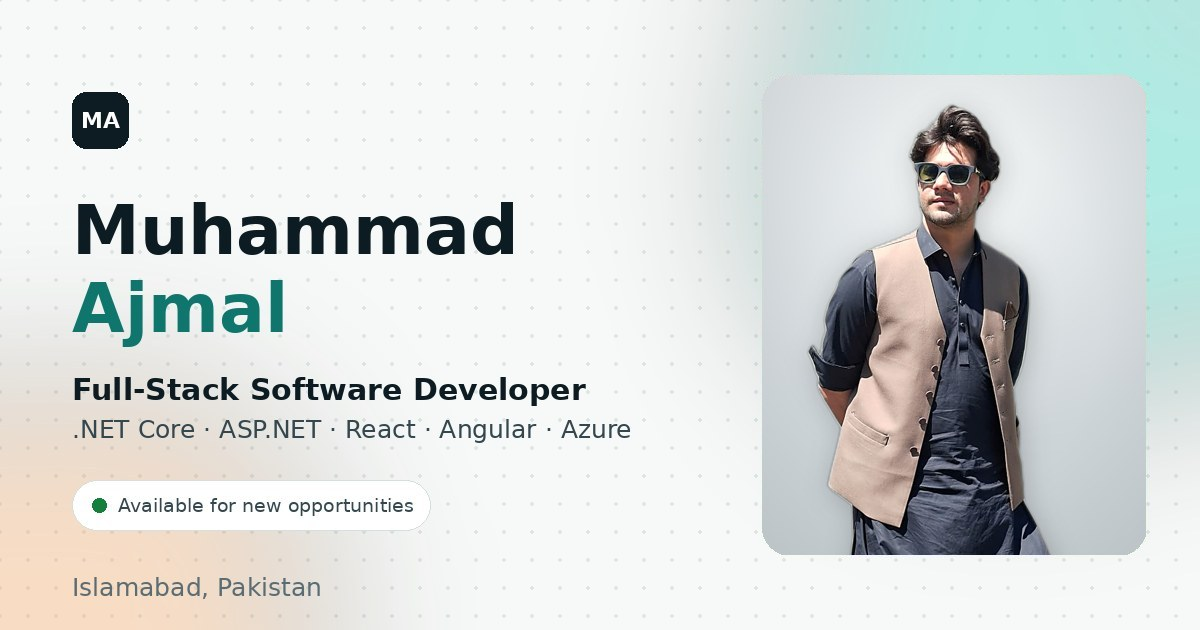
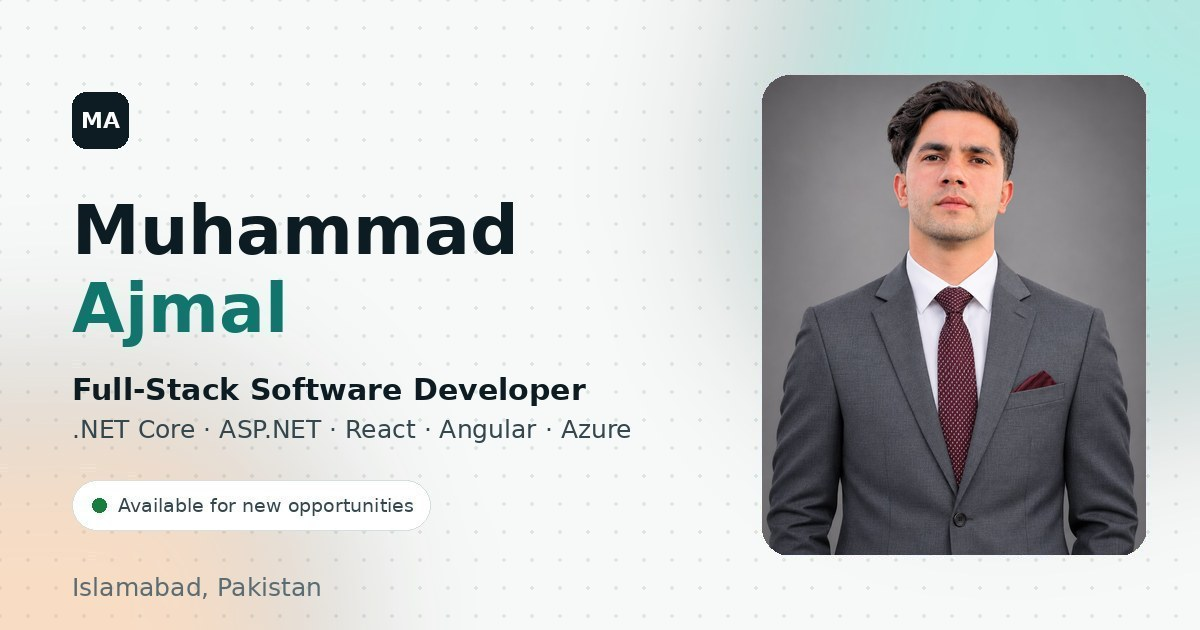
Add files via upload

Changed region(s): [[0.6167, 0.1206, 0.9558, 0.9048]]

diff --git a/config.js b/config.js
@@ -29,9 +29,10 @@ window.PORTFOLIO = {
     ],
     location: "Islamabad, Pakistan",
     hometown: "Matta, Swat",
-    photo: "profile.webp",
-    photoFallback: "profile.jpg",
-    photoAlt: "Portrait of Muhammad Ajmal standing beside a turquoise mountain lake",
+    photo: "profile-gray.webp",
+    photoFallback: "profile-gray.jpg",
+    // To use the navy-suit photo instead: "profile-navy.webp" and "profile-navy.jpg"
+    photoAlt: "Professional portrait of Muhammad Ajmal in a suit and tie",
     email: "khanajmal4413@gmail.com",
     phone: "+92 348 2481071",
     whatsapp: "923482481071",         // digits only, with country code

diff --git a/index.html b/index.html
@@ -32,7 +32,7 @@
 <link rel="preconnect" href="https://fonts.googleapis.com">
 <link rel="preconnect" href="https://fonts.gstatic.com" crossorigin>
 <link href="https://fonts.googleapis.com/css2?family=Space+Grotesk:wght@500;600;700&family=Manrope:wght@400;500;600;700&family=JetBrains+Mono:wght@400;500&display=swap" rel="stylesheet">
-<link rel="preload" as="image" href="profile.webp" type="image/webp">
+<link rel="preload" as="image" href="profile-gray.webp" type="image/webp">
 <link rel="stylesheet" href="styles.css">
 </head>
 <body>

diff --git a/README.md b/README.md
@@ -16,7 +16,7 @@ Plain HTML, CSS and JavaScript with no build step and no dependencies. It is hos
 | `config.js` | **All your personal information. Edit this file to update the site.** |
 | `styles.css` | Design system, light/dark themes, layout, animations |
 | `app.js` | Builds every section from `config.js` + all interactions |
-| `profile.webp` / `profile.jpg` | Profile photo (WebP + JPG fallback) |
+| `profile-gray.webp` / `profile-gray.jpg` (+ `profile-navy.*` alternative) | Profile photo (WebP + JPG fallback) |
 | `Muhammad_Ajmal_CV.pdf` | Downloadable resume |
 | `og-image.jpg` | Preview image shown when the link is shared (LinkedIn, WhatsApp…) |
 | `favicon.svg`, `apple-touch-icon.png` | Browser / phone icons |
@@ -34,7 +34,7 @@ Open **`config.js`** on GitHub → click ✏ → edit → **Commit changes**.
 - **Certificate:** add to `certifications` (`name`, `issuer`, `date`, `image`, `file`, `verifyUrl`). The section and its menu link appear automatically.
 - **Testimonials:** add only genuine ones to `testimonials`. The section stays hidden while the list is empty.
 - **New CV:** upload the PDF with the same name `Muhammad_Ajmal_CV.pdf` (or change `resume` in `config.js`).
-- **New photo:** replace `profile.jpg` and `profile.webp` (same names, portrait 4:5).
+- **New photo:** upload the new files and update `photo` / `photoFallback` in `config.js`. Use a new file name so browsers don't keep showing the old cached photo.
 
 Lines marked `TODO` in `config.js` are things only you can fill in.
 
